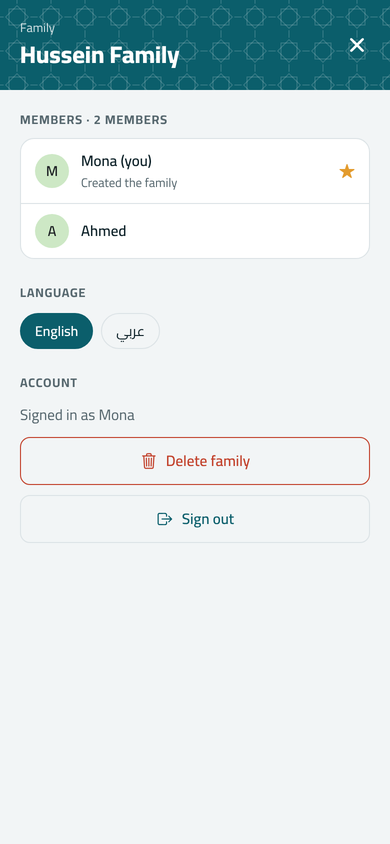
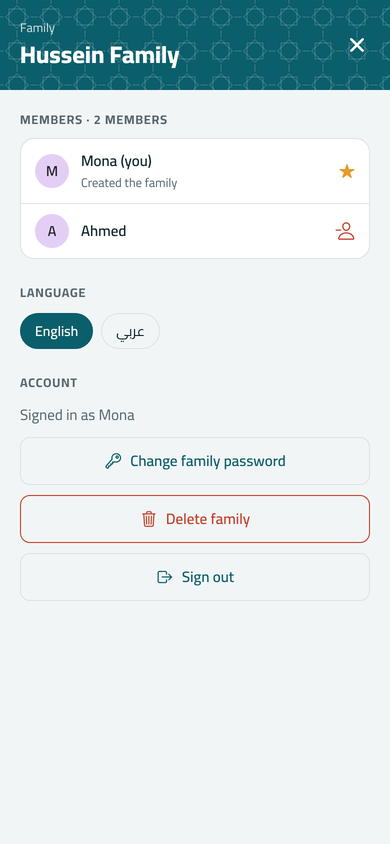
docs: refresh README screenshots with the new screens
Retaken from the current build: the family sheet with remove member and
change password, the add sheet's 'Added' confirmation, the waiting-for-
connection screen and the family-deleted notice. Drop two unused shots.

Claude-Session: https://claude.ai/code/session_016gRKZA8tjuCX6dxnztrpnS

diff --git a/README.md b/README.md
@@ -3,10 +3,16 @@
 A shared shopping list for the whole family, in Arabic and English. Built with Expo (React Native) and Firebase.
 
 <p>
-  <img src="docs/screenshots/list.png" width="200" alt="Shopping list in English">
-  <img src="docs/screenshots/add-item.png" width="200" alt="Adding an item">
-  <img src="docs/screenshots/list-arabic-dark.png" width="200" alt="Shopping list in Arabic, dark theme">
-  <img src="docs/screenshots/family.png" width="200" alt="Family sheet">
+  <img src="docs/screenshots/list.png" width="200" alt="Shopping list: overdue, today and tomorrow items, and bought items">
+  <img src="docs/screenshots/add-item.png" width="200" alt="Add-item sheet confirming the last item added">
+  <img src="docs/screenshots/family.png" width="200" alt="Family sheet for the creator: remove a member, change the family password">
+  <img src="docs/screenshots/list-arabic-dark.png" width="200" alt="Shopping list in Arabic, right to left, dark theme">
+</p>
+<p>
+  <img src="docs/screenshots/sign-in.png" width="200" alt="Sign in">
+  <img src="docs/screenshots/join-lockout.png" width="200" alt="Joining with a wrong family password: tries left before a wait">
+  <img src="docs/screenshots/waiting.png" width="200" alt="Waiting for a connection when offline">
+  <img src="docs/screenshots/family-deleted.png" width="200" alt="Notice after the family was deleted">
 </p>
 
 ## What it does
